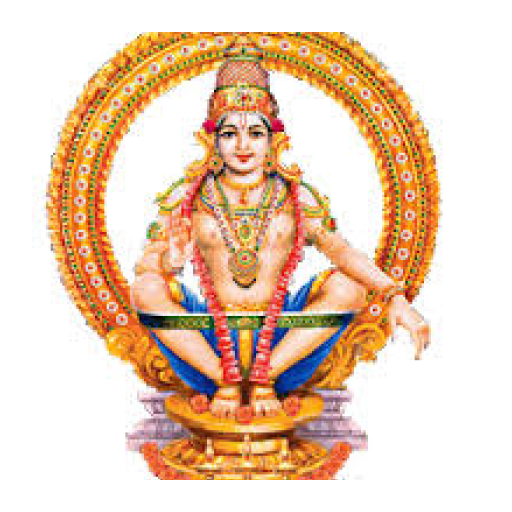
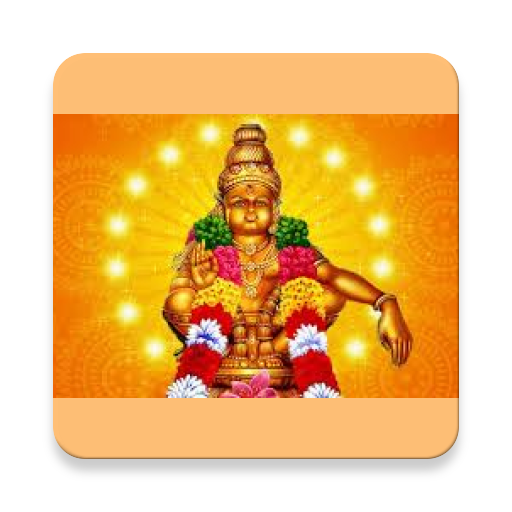
Lok veeram is added.

diff --git a/app/src/main/java/mitran/varunan/ayyappa/MainActivity.java b/app/src/main/java/mitran/varunan/ayyappa/MainActivity.java
@@ -26,10 +26,10 @@ import java.io.InputStream;
 public class MainActivity extends AppCompatActivity implements RewardedVideoAdListener {
 
 
-    private String[] strValues = new String[11];
+    private String[] strValues = new String[12];
     public String[] mStringIds = {
             "சுவாமி ஐயப்பன் சரணம் 108-1", "சுவாமி ஐயப்பன் சரணம் 108-2",
-            "ஐயப்பன் மூலமந்திரம்", "சபரிமலை வழிநடை சரணம்",
+            "ஐயப்பன் மூலமந்திரம்", "லோக வீரம்", "சபரிமலை வழிநடை சரணம்",
             "ஐயப்பன் வரலாறு", "சபரிமலை யாத்திரை",
             "சபரிமலை வழிகள்", "வாபர் சுவாமி கதை",
             "ஐயப்பன் பாடல்கள்", "வீடியோ பாடல்கள்",
@@ -53,10 +53,10 @@ public class MainActivity extends AppCompatActivity implements RewardedVideoAdLi
                                     int position, long id) {
                 //Toast.makeText(HelloGridView.this, "" + position,
                 //Toast.LENGTH_SHORT).show();
-                if (position == 8) {
+                if (position == 9) {
                     showInterstitial();
                 }
-                else  if(position == 9)
+                else  if(position == 10)
                 {
                     loadRewardedVideoAd();
                     showRewardedVideo();
@@ -102,9 +102,20 @@ public class MainActivity extends AppCompatActivity implements RewardedVideoAdLi
             strValues[2] = new String("ஓம் ஹரி ஹர புத்ராய\n \tபுத்ரலாபாய!\n" +
                     "ஸத்ருநாசனாய\n மதகஜ வாகனாய\nமகா சாஸ்த்ரே நமஹ!");
 
-            strValues[10] = "அறிந்தும் அறியாமலும், தெரிந்தும் தெரியாமலும் செய்த ஸகல குற்றங்களையும் பொருத்து காத்து ரக்க்ஷித்து அருள வேண்டும்." +
+            strValues[11] = "அறிந்தும் அறியாமலும், தெரிந்தும் தெரியாமலும் செய்த ஸகல குற்றங்களையும் பொருத்து காத்து ரக்க்ஷித்து அருள வேண்டும்." +
                     "ஓம் ஸ்ரீ சத்யமான பொண்ணு பதினெட்டு படிமேல் வாழும், வில்லாளி வீரன், வீரமணி கண்டன், காசி இராமேஸ்வரம்  பாண்டி மலையாளம் அடக்கி ஆளும்" +
                     "ஓம் ஸ்ரீ ஹரிஹர சுதன் கலியுக வரதன் ஆனந்த சித்தன் என் அய்யன் ஐயப்பன் சுவாமியே சரணம் ஐயப்பா";
+
+            is1 = getAssets().open("logoveeram");
+            // check size
+            size = is1.available();
+            // create buffer for IO
+            buffer = new byte[size];
+            // get data to buffer
+            is1.read(buffer);
+            // close stream
+            is1.close();
+            strValues[3] = new String(buffer);
 
             is1 = getAssets().open("new3.txt");
             // check size
@@ -116,22 +127,9 @@ public class MainActivity extends AppCompatActivity implements RewardedVideoAdLi
             // close stream
             is1.close();
 
-            strValues[3] = new String(buffer);
-
-            is1 = getAssets().open("varalaru.txt");
-            // check size
-            size = is1.available();
-            // create buffer for IO
-            buffer = new byte[size];
-            // get data to buffer
-            is1.read(buffer);
-            // close stream
-            is1.close();
-
             strValues[4] = new String(buffer);
 
-
-            is1 = getAssets().open("yaathirai.txt");
+            is1 = getAssets().open("varalaru.txt");
             // check size
             size = is1.available();
             // create buffer for IO
@@ -144,7 +142,7 @@ public class MainActivity extends AppCompatActivity implements RewardedVideoAdLi
             strValues[5] = new String(buffer);
 
 
-            is1 = getAssets().open("vazhaligal.txt");
+            is1 = getAssets().open("yaathirai.txt");
             // check size
             size = is1.available();
             // create buffer for IO
@@ -156,7 +154,8 @@ public class MainActivity extends AppCompatActivity implements RewardedVideoAdLi
 
             strValues[6] = new String(buffer);
 
-            is1 = getAssets().open("vabar.txt");
+
+            is1 = getAssets().open("vazhaligal.txt");
             // check size
             size = is1.available();
             // create buffer for IO
@@ -168,7 +167,7 @@ public class MainActivity extends AppCompatActivity implements RewardedVideoAdLi
 
             strValues[7] = new String(buffer);
 
-            is1 = getAssets().open("songs.txt");
+            is1 = getAssets().open("vabar.txt");
             // check size
             size = is1.available();
             // create buffer for IO
@@ -179,6 +178,18 @@ public class MainActivity extends AppCompatActivity implements RewardedVideoAdLi
             is1.close();
 
             strValues[8] = new String(buffer);
+
+            is1 = getAssets().open("songs.txt");
+            // check size
+            size = is1.available();
+            // create buffer for IO
+            buffer = new byte[size];
+            // get data to buffer
+            is1.read(buffer);
+            // close stream
+            is1.close();
+
+            strValues[9] = new String(buffer);
 
 
             MobileAds.initialize(this, "ca-app-pub-8029348846516333~6696244962");

diff --git a/app/src/main/java/mitran/varunan/ayyappa/ImageAdapter.java b/app/src/main/java/mitran/varunan/ayyappa/ImageAdapter.java
@@ -77,12 +77,12 @@ public class ImageAdapter extends BaseAdapter {
             R.mipmap.ayyappa5, R.mipmap.ayyappa6,
             R.mipmap.ayyappa7, R.mipmap.ayyappa8,
             R.mipmap.ayyappa9, R.mipmap.ayyappa10,
-            R.mipmap.ayyappa11
+            R.mipmap.ayyappa11,  R.mipmap.ayyappa12
     };
 
     public String[] mStringIds = {
             "சரணம் 108-1", "சரணம் 108-2",
-            "மூலமந்திரம்", "வழிநடைசரணம்",
+            "மூலமந்திரம்","லோக வீரம்", "வழிநடைசரணம்",
             "வரலாறு","யாத்திரை",
             "வழிகள்","வாபர்",
             "பாடல்கள்", "வீடியோ பாடல்", "மங்களம்"
